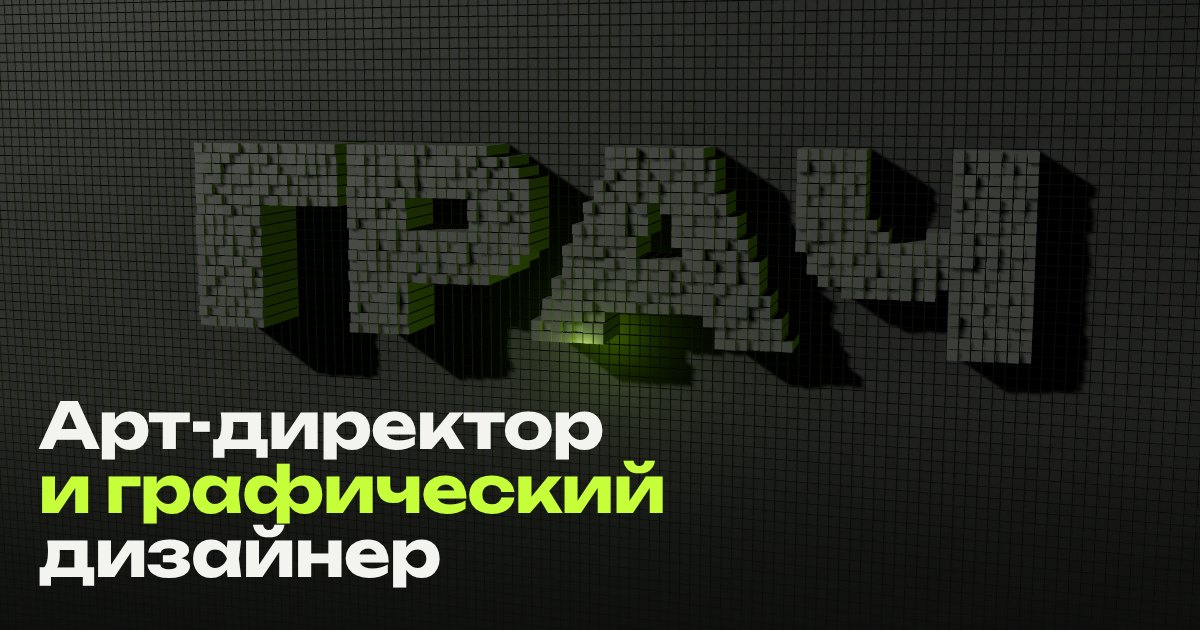
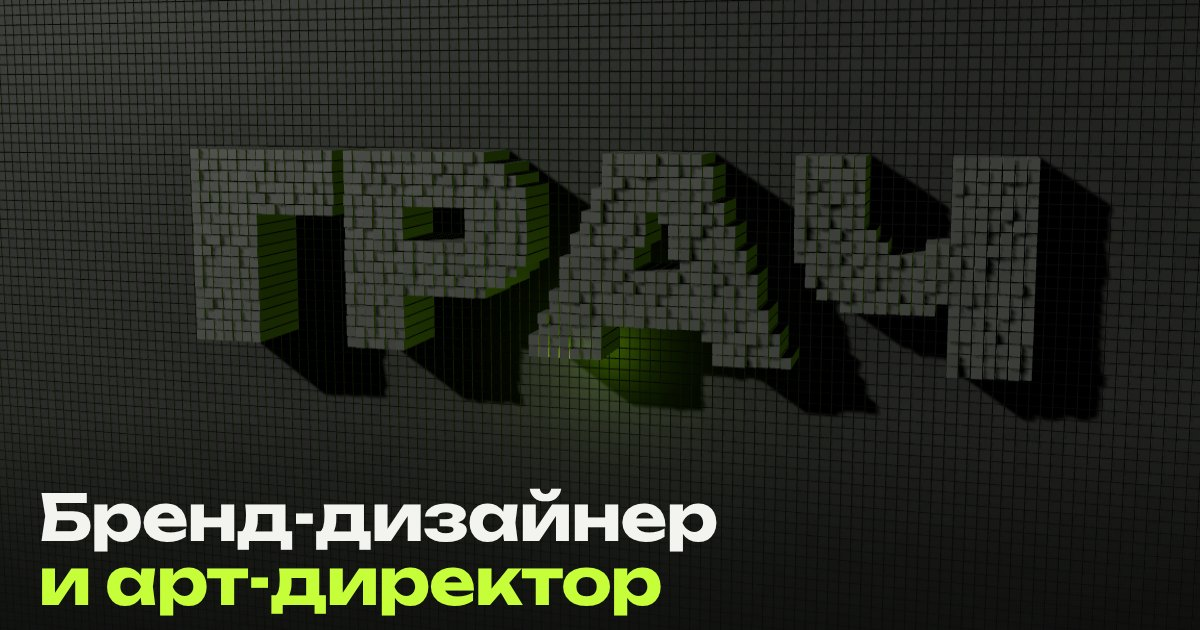
Портфолио по актуальному резюме
Claude-Session: https://claude.ai/code/session_01C8sGdM6AuVSUqUo4QNBD4Q

diff --git a/index.html b/index.html
@@ -3,16 +3,16 @@
 <head>
 <meta charset="utf-8">
 <meta name="viewport" content="width=device-width, initial-scale=1">
-<title>Грач Брутян — арт-директор и графический дизайнер</title>
-<meta name="description" content="Грач Брутян — арт-директор и графический дизайнер, дизайн-лид Business Cruise. Визуальные системы, презентации, мерч, афиши, AI-визуал.">
+<title>Грач Брутян — бренд-дизайнер и арт-директор</title>
+<meta name="description" content="Грач Брутян — ведущий бренд-дизайнер и арт-директор. Визуальные системы брендов: брендбуки, презентации, SMM, реклама, сайты, мерч и печать">
 <link rel="icon" href="assets/favicon.svg" type="image/svg+xml">
 <meta name="theme-color" content="#0a0b0a">
 <meta property="og:type" content="website">
 <meta property="og:locale" content="ru_RU">
-<meta property="og:title" content="Грач Брутян — арт-директор и графический дизайнер">
-<meta property="og:description" content="Арт-директор и графический дизайнер: айдентика, брендбуки, полиграфия, сайты, презентации и мерч для бизнеса">
+<meta property="og:title" content="Грач Брутян — бренд-дизайнер и арт-директор">
+<meta property="og:description" content="Визуальные системы брендов с нуля: айдентика, брендбуки, презентации, SMM, реклама, сайты, мерч и печать">
 <meta property="og:url" content="https://grizzly2888.github.io/Grach/">
-<meta property="og:image" content="https://grizzly2888.github.io/Grach/assets/og.jpg">
+<meta property="og:image" content="https://grizzly2888.github.io/Grach/assets/og.jpg?v=2">
 <meta property="og:image:width" content="1200">
 <meta property="og:image:height" content="630">
 <meta name="twitter:card" content="summary_large_image">
@@ -375,6 +375,7 @@ html{overscroll-behavior-x:none}
   .caps__shot{position:relative;inset:auto;flex:0 0 82%;aspect-ratio:4/5;opacity:1;transform:none;pointer-events:auto;border-radius:20px;overflow:hidden;scroll-snap-align:center;background:var(--plate)}
 }
 
+.js-hero-title .w{white-space:nowrap}
 /* ---------- reading measure: 7 words per line, 10 at most ---------- */
 .manifest-sub,.sec-head p,.card .lead,.more-note,.plate p,.contact p,.mini__body p,.stat p{max-width:38ch}
 .manifest-sub{max-width:34ch}
@@ -518,7 +519,7 @@ html{overscroll-behavior-x:none}
   <div class="hero__shade" aria-hidden="true"></div>
   <div class="stage"><div class="word-fallback" aria-hidden="true">ГРАЧ</div></div>
   <div class="hero__grid">
-    <h1 class="split js-hero-title">Арт-директор <span class="neon">и графический</span> дизайнер</h1>
+    <h1 class="split js-hero-title">Бренд-дизайнер <span class="neon">и арт-директор</span></h1>
     <div class="hero__card js-hero-card">
       <p class="hero__lead"><b>Бренд без швов</b>Один арт-директор вместо пяти подрядчиков</p>
       <ul class="brands" aria-label="Бренды">
@@ -538,7 +539,7 @@ html{overscroll-behavior-x:none}
 
 <div class="marquee" aria-hidden="true">
   <div class="marquee__track">
-    <span>Айдентика</span><span>Брендбуки</span><span>Полиграфия</span><span>Сайты</span><span>Презентации</span><span>Мерч</span><span>AI-визуал</span><span>Айдентика</span><span>Брендбуки</span><span>Полиграфия</span><span>Сайты</span><span>Презентации</span><span>Мерч</span><span>AI-визуал</span>
+    <span>Айдентика</span><span>Брендбуки</span><span>Полиграфия</span><span>Сайты</span><span>Презентации</span><span>SMM</span><span>Мерч</span><span>AI-визуал</span><span>Айдентика</span><span>Брендбуки</span><span>Полиграфия</span><span>Сайты</span><span>Презентации</span><span>SMM</span><span>Мерч</span><span>AI-визуал</span>
   </div>
 </div>
 
@@ -580,8 +581,8 @@ html{overscroll-behavior-x:none}
     </a>
     <a class="plate svc" href="#posters" data-reveal>
       <div class="ico"><svg viewBox="0 0 48 48" aria-hidden="true"><path d="M22 6c1.4 9.6 5.4 13.6 15 15-9.6 1.4-13.6 5.4-15 15-1.4-9.6-5.4-13.6-15-15 9.6-1.4 13.6-5.4 15-15Z"/><path class="fill" d="M38 30c.6 3.9 2.1 5.4 6 6-3.9.6-5.4 2.1-6 6-.6-3.9-2.1-5.4-6-6 3.9-.6 5.4-2.1 6-6Z"/></svg></div>
-      <h3>Реклама и AI-визуал</h3>
-      <p>Афиши, баннеры и сторис. Генерирую фоны под композицию и довожу вручную</p>
+      <h3>Реклама, SMM и AI-визуал</h3>
+      <p>Афиши, баннеры, сторис и карусели для соцсетей. Генерирую фоны под композицию и довожу вручную</p>
       <span class="svc__who">Business Cruise</span>
     </a>
   </div>
@@ -590,13 +591,13 @@ html{overscroll-behavior-x:none}
 <section class="sec wrap results" id="results" aria-labelledby="results-title">
   <div class="sec-head">
     <h2 class="split" id="results-title">Что даёт дизайн<br>бизнесу</h2>
-    <p data-reveal>Пять брендов из разных отраслей: туризм, недвижимость, промышленность, релокация и ритейл</p>
+    <p data-reveal>Цифры по Business Cruise: бизнес-сообщество на 1000+ предпринимателей</p>
   </div>
   <div class="stats">
-    <div class="stat" data-reveal><b>5</b><span>брендов</span><p>от риелторского клуба и производителя оборудования до сервиса релокации и сообщества путешественников</p></div>
     <div class="stat" data-reveal><b>11</b><span>направлений</span><p>экспедиций и круизов в одном визуальном языке: от Японии до Антарктиды</p></div>
-    <div class="stat" data-reveal><b>×2</b><span>быстрее</span><p>команда собирает макеты по брендбуку, без правок от дизайнера</p></div>
+    <div class="stat" data-reveal><b>×2</b><span>быстрее</span><p>команда собирает макеты по брендбуку, без правок от дизайнера</p></div>
     <div class="stat" data-reveal><b>+35%</b><span>регистраций</span><p>на события после перехода на новую серию афиш</p></div>
+    <div class="stat" data-reveal><b>+65%</b><span>вовлечённости</span><p>в соцсетях за первые 3 месяца после запуска фирменных каруселей</p></div>
   </div>
 </section>
 
@@ -630,7 +631,7 @@ html{overscroll-behavior-x:none}
         <div class="card__top"><span class="chip chip--neon">Business Cruise</span><span class="chip">Визуальная система</span><span class="chip">2025</span></div>
         <h3>Стайлгайд бизнес-сообщества</h3>
         <p class="lead">Задача: собрать разрозненные коммуникации круизов, экспедиций и событий в один узнаваемый язык</p>
-        <div class="dl"><div class="dl__label">Что сделано</div><ul class="dl__grid"><li><b>40+ страниц</b><span>Руководство по бренду</span></li><li><b>Old Money</b><span>Синий, бежевый, слоновая кость и два акцента</span></li><li><b>Логотип</b><span>Охранное поле, работа на фото</span></li><li><b>Шаблоны</b><span>Рекламные модули и шрифтовая система</span></li></ul></div>
+        <div class="dl"><div class="dl__label">Что сделано</div><ul class="dl__grid"><li><b>40+ страниц</b><span>Руководство по бренду</span></li><li><b>Old Money</b><span>Синий, бежевый, слоновая кость и два акцента</span></li><li><b>Логотип</b><span>Охранное поле, работа на фото</span></li><li><b>Шаблоны</b><span>Рекламные модули, шрифты и tone of voice</span></li></ul></div>
       </div>
       <div class="card__vis">
         <div class="mosaic m-deck">
@@ -645,7 +646,7 @@ html{overscroll-behavior-x:none}
         <div class="card__top"><span class="chip chip--neon">Signum Group</span><span class="chip">Полиграфия</span><span class="chip">Каталоги</span></div>
         <h3>Каталоги производителя Signum</h3>
         <p class="lead">Задача: уложить большой ассортимент оборудования в каталог, по которому легко найти нужное</p>
-        <div class="dl"><div class="dl__label">Что сделано</div><ul class="dl__grid"><li><b>Каталог</b><span>Продукция и имиджевая брошюра</span></li><li><b>Модульная сетка</b><span>Строгая типографика на сотнях страниц</span></li><li><b>Препресс</b><span>Структура и подготовка к печати</span></li></ul></div>
+        <div class="dl"><div class="dl__label">Что сделано</div><ul class="dl__grid"><li><b>Каталог</b><span>Продукция и имиджевая брошюра</span></li><li><b>Модульная сетка</b><span>Строгая типографика на сотнях страниц</span></li><li><b>Препресс</b><span>Структура и подготовка к печати</span></li><li><b>20+ проектов</b><span>Логотипы, реклама, перенос бренда в CRM</span></li></ul></div>
       </div>
       <div class="card__vis"><div class="mosaic m-deck">
           <div><img decoding="async" src="assets/v2/sig-cat.webp" srcset="assets/v2/sig-cat-480.webp 480w, assets/v2/sig-cat-960.webp 960w, assets/v2/sig-cat.webp 1600w" sizes="(max-width:900px) 100vw, 45vw" alt="Каталог фирменных товаров Signum 2024" loading="lazy" width="1600" height="900"></div>
@@ -658,9 +659,9 @@ html{overscroll-behavior-x:none}
     <article class="card" id="case-dreem">
       <div class="card__meta">
         <div class="card__top"><span class="chip chip--neon">Dreem Relocation</span><span class="chip">UX/UI</span><span class="chip">Сайт</span></div>
-        <h3>Платформа по релокации Dreem</h3>
+        <h3>Платформа по релокации Dreem</h3>
         <p class="lead">Был ведущим дизайнером. Цель: упростить навигацию и передать чувство надёжности тем, кто переезжает в другую страну</p>
-        <div class="dl"><div class="dl__label">Что сделано</div><ul class="dl__grid"><li><b>UX</b><span>Логика экранов и навигация сайта</span></li><li><b>UI</b><span>Визуальная система и иллюстрации</span></li></ul></div>
+        <div class="dl"><div class="dl__label">Что сделано</div><ul class="dl__grid"><li><b>UX</b><span>Логика экранов и навигация сайта</span></li><li><b>UI</b><span>Визуальная система и иллюстрации</span></li><li><b>Шаблоны</b><span>Визуалы выходят на 30% быстрее</span></li><li><b>Дашборды</b><span>Интерфейсные модули и визуалы для соцсетей</span></li></ul></div>
       </div>
       <div class="card__vis"><div class="mosaic m-deck">
           <div><img decoding="async" src="assets/v2/dreem-visa.webp" srcset="assets/v2/dreem-visa-480.webp 480w, assets/v2/dreem-visa-960.webp 960w, assets/v2/dreem-visa.webp 1600w" sizes="(max-width:900px) 100vw, 45vw" alt="Сайт Dreem на ноутбуке и телефоне: страница визы O-1A" loading="lazy" width="1600" height="900"></div>
@@ -689,7 +690,7 @@ html{overscroll-behavior-x:none}
   <div class="minis">
     <article class="mini" data-reveal>
       <div class="mini__img"><img decoding="async" src="assets/v2/sig-web.webp" srcset="assets/v2/sig-web-480.webp 480w, assets/v2/sig-web-960.webp 960w, assets/v2/sig-web.webp 1600w" sizes="(max-width:900px) 100vw, 33vw" alt="Сайт компании Signum на ноутбуке" loading="lazy" width="1600" height="900"></div>
-      <div class="mini__body"><span class="chip chip--neon">Signum</span><h3>Сайт производителя</h3><p>Сайт производителя КИПиА: продукт крупно, разделы для клиентов и партнёров</p></div>
+      <div class="mini__body"><span class="chip chip--neon">Signum</span><h3>Сайт производителя</h3><p>Сайт производителя КИПиА с разделами для клиентов и партнёров: +20% к глубине просмотра</p></div>
     </article>
     <article class="mini" data-reveal>
       <div class="mini__img"><img decoding="async" src="assets/v2/freya-web.webp" srcset="assets/v2/freya-web-480.webp 480w, assets/v2/freya-web-960.webp 960w, assets/v2/freya-web.webp 1600w" sizes="(max-width:900px) 100vw, 33vw" alt="Сайт магазина детской одежды Freya на ноутбуке" loading="lazy" width="1600" height="900"></div>
@@ -697,7 +698,7 @@ html{overscroll-behavior-x:none}
     </article>
     <article class="mini" data-reveal>
       <div class="mini__img"><img decoding="async" src="assets/v2/freya-mobile.webp" srcset="assets/v2/freya-mobile-480.webp 480w, assets/v2/freya-mobile-960.webp 960w, assets/v2/freya-mobile.webp 1600w" sizes="(max-width:900px) 100vw, 33vw" alt="Мобильная версия сайта Freya на двух телефонах" loading="lazy" width="1600" height="900"></div>
-      <div class="mini__body"><span class="chip chip--neon">Freya</span><h3>Мобильная версия</h3><p>Тот же магазин в телефоне: крупные фото, короткие подписи, каталог в одну колонку</p></div>
+      <div class="mini__body"><span class="chip chip--neon">Freya</span><h3>Мобильная версия</h3><p>Тот же магазин в телефоне: крупные фото, короткие подписи, каталог в одну колонку</p></div>
     </article>
   </div>
   <p class="more-note" data-reveal>Здесь лишь часть проектов. Покажу больше работ под вашу задачу: <a href="https://t.me/Grachvision" target="_blank" rel="noopener">запросить подборку в Telegram ↗</a></p>
@@ -714,14 +715,14 @@ html{overscroll-behavior-x:none}
   </div>
   <div class="hs__track js-hs-track">
     <figure class="slide"><img decoding="async" src="assets/v2/wa-cover.webp" srcset="assets/v2/wa-cover-480.webp 480w, assets/v2/wa-cover.webp 1080w" sizes="(max-width:900px) 64vw, 320px" alt="Слайд презентации «Дикая Амазонка»: Обложка: бизнес-круиз «Амазонка»" loading="lazy" width="1080" height="1920"><figcaption><span>Обложка: бизнес-круиз «Амазонка»</span><span>01 / 26</span></figcaption></figure>
-    <figure class="slide"><img decoding="async" src="assets/v2/wa-speakers.webp" srcset="assets/v2/wa-speakers-480.webp 480w, assets/v2/wa-speakers.webp 1080w" sizes="(max-width:900px) 64vw, 320px" alt="Слайд презентации «Дикая Амазонка»: Спикеры и темы" loading="lazy" width="1080" height="1920"><figcaption><span>Спикеры и темы</span><span>04 / 26</span></figcaption></figure>
+    <figure class="slide"><img decoding="async" src="assets/v2/wa-speakers.webp" srcset="assets/v2/wa-speakers-480.webp 480w, assets/v2/wa-speakers.webp 1080w" sizes="(max-width:900px) 64vw, 320px" alt="Слайд презентации «Дикая Амазонка»: Спикеры и темы" loading="lazy" width="1080" height="1920"><figcaption><span>Спикеры и темы</span><span>04 / 26</span></figcaption></figure>
     <figure class="slide"><img decoding="async" src="assets/v2/wa-vega.webp" srcset="assets/v2/wa-vega-480.webp 480w, assets/v2/wa-vega.webp 1080w" sizes="(max-width:900px) 64vw, 320px" alt="Слайд презентации «Дикая Амазонка»: Лайнер SH Vega" loading="lazy" width="1080" height="1920"><figcaption><span>Лайнер SH Vega</span><span>05 / 26</span></figcaption></figure>
-    <figure class="slide"><img decoding="async" src="assets/v2/wa-vega-inside.webp" srcset="assets/v2/wa-vega-inside-480.webp 480w, assets/v2/wa-vega-inside.webp 1080w" sizes="(max-width:900px) 64vw, 320px" alt="Слайд презентации «Дикая Амазонка»: Что есть на борту" loading="lazy" width="1080" height="1920"><figcaption><span>Что есть на борту</span><span>06 / 26</span></figcaption></figure>
-    <figure class="slide"><img decoding="async" src="assets/v2/wa-vega-facts.webp" srcset="assets/v2/wa-vega-facts-480.webp 480w, assets/v2/wa-vega-facts.webp 1080w" sizes="(max-width:900px) 64vw, 320px" alt="Слайд презентации «Дикая Амазонка»: Лайнер в цифрах" loading="lazy" width="1080" height="1920"><figcaption><span>Лайнер в цифрах</span><span>07 / 26</span></figcaption></figure>
+    <figure class="slide"><img decoding="async" src="assets/v2/wa-vega-inside.webp" srcset="assets/v2/wa-vega-inside-480.webp 480w, assets/v2/wa-vega-inside.webp 1080w" sizes="(max-width:900px) 64vw, 320px" alt="Слайд презентации «Дикая Амазонка»: Что есть на борту" loading="lazy" width="1080" height="1920"><figcaption><span>Что есть на борту</span><span>06 / 26</span></figcaption></figure>
+    <figure class="slide"><img decoding="async" src="assets/v2/wa-vega-facts.webp" srcset="assets/v2/wa-vega-facts-480.webp 480w, assets/v2/wa-vega-facts.webp 1080w" sizes="(max-width:900px) 64vw, 320px" alt="Слайд презентации «Дикая Амазонка»: Лайнер в цифрах" loading="lazy" width="1080" height="1920"><figcaption><span>Лайнер в цифрах</span><span>07 / 26</span></figcaption></figure>
     <figure class="slide"><img decoding="async" src="assets/v2/wa-map.webp" srcset="assets/v2/wa-map-480.webp 480w, assets/v2/wa-map.webp 1080w" sizes="(max-width:900px) 64vw, 320px" alt="Слайд презентации «Дикая Амазонка»: Карта маршрута" loading="lazy" width="1080" height="1920"><figcaption><span>Карта маршрута</span><span>09 / 26</span></figcaption></figure>
     <figure class="slide"><img decoding="async" src="assets/v2/wa-belem.webp" srcset="assets/v2/wa-belem-480.webp 480w, assets/v2/wa-belem.webp 1080w" sizes="(max-width:900px) 64vw, 320px" alt="Слайд презентации «Дикая Амазонка»: День 1–2: Белен" loading="lazy" width="1080" height="1920"><figcaption><span>День 1–2: Белен</span><span>11 / 26</span></figcaption></figure>
     <figure class="slide"><img decoding="async" src="assets/v2/wa-abuna.webp" srcset="assets/v2/wa-abuna-480.webp 480w, assets/v2/wa-abuna.webp 1080w" sizes="(max-width:900px) 64vw, 320px" alt="Слайд презентации «Дикая Амазонка»: День 4: Абуна" loading="lazy" width="1080" height="1920"><figcaption><span>День 4: Абуна</span><span>13 / 26</span></figcaption></figure>
-    <figure class="slide"><img decoding="async" src="assets/v2/wa-sea.webp" srcset="assets/v2/wa-sea-480.webp 480w, assets/v2/wa-sea.webp 1080w" sizes="(max-width:900px) 64vw, 320px" alt="Слайд презентации «Дикая Амазонка»: День в море" loading="lazy" width="1080" height="1920"><figcaption><span>День в море</span><span>17 / 26</span></figcaption></figure>
+    <figure class="slide"><img decoding="async" src="assets/v2/wa-sea.webp" srcset="assets/v2/wa-sea-480.webp 480w, assets/v2/wa-sea.webp 1080w" sizes="(max-width:900px) 64vw, 320px" alt="Слайд презентации «Дикая Амазонка»: День в море" loading="lazy" width="1080" height="1920"><figcaption><span>День в море</span><span>17 / 26</span></figcaption></figure>
     <figure class="slide"><img decoding="async" src="assets/v2/wa-paramaribo.webp" srcset="assets/v2/wa-paramaribo-480.webp 480w, assets/v2/wa-paramaribo.webp 1080w" sizes="(max-width:900px) 64vw, 320px" alt="Слайд презентации «Дикая Амазонка»: Парамарибо" loading="lazy" width="1080" height="1920"><figcaption><span>Парамарибо</span><span>19 / 26</span></figcaption></figure>
     <figure class="slide"><img decoding="async" src="assets/v2/wa-scarborough.webp" srcset="assets/v2/wa-scarborough-480.webp 480w, assets/v2/wa-scarborough.webp 1080w" sizes="(max-width:900px) 64vw, 320px" alt="Слайд презентации «Дикая Амазонка»: Скарборо, Тобаго" loading="lazy" width="1080" height="1920"><figcaption><span>Скарборо, Тобаго</span><span>21 / 26</span></figcaption></figure>
     <figure class="slide"><img decoding="async" src="assets/v2/wa-bridgetown.webp" srcset="assets/v2/wa-bridgetown-480.webp 480w, assets/v2/wa-bridgetown.webp 1080w" sizes="(max-width:900px) 64vw, 320px" alt="Слайд презентации «Дикая Амазонка»: Бриджтаун, Барбадос" loading="lazy" width="1080" height="1920"><figcaption><span>Бриджтаун, Барбадос</span><span>22 / 26</span></figcaption></figure>
@@ -732,8 +733,8 @@ html{overscroll-behavior-x:none}
 <!-- MERCH -->
 <section class="sec wrap" id="merch">
   <div class="sec-head">
-    <h2 class="split">Мерч и упаковка</h2>
-    <p data-reveal>Своя капсула для каждой поездки: принт по мотивам страны, маршрут на одежде, упаковка и сувениры в одном стиле с программой</p>
+    <h2 class="split">Мерч и упаковка</h2>
+    <p data-reveal>Капсулы и упаковка для 9 поездок: принт по мотивам страны, маршрут на одежде, сувениры в одном стиле с программой</p>
   </div>
   <div class="caps">
     <ul class="caps__list" aria-label="Капсулы">
@@ -755,7 +756,7 @@ html{overscroll-behavior-x:none}
       <figure class="caps__shot" data-i="4"><img decoding="async" src="assets/v2/m-africa.webp" srcset="assets/v2/m-africa-480.webp 480w, assets/v2/m-africa.webp 1089w" sizes="(max-width:900px) 82vw, 55vw" alt="Футболка «#Африка — соединяем сильных» спереди и сзади" loading="lazy" style="object-fit:cover;object-position:50% 30%"><figcaption><b>Африка</b>Крупный принт с флагом ЮАР и хештегом #Африка на спине</figcaption></figure>
       <figure class="caps__shot caps__shot--japan" data-i="5" style="background:#e3e8ee"><img decoding="async" src="assets/v2/m-japan.webp" srcset="assets/v2/m-japan-480.webp 480w, assets/v2/m-japan-960.webp 960w, assets/v2/m-japan.webp 1280w" sizes="(max-width:900px) 82vw, 55vw" alt="Свитшот Business Cruise с картой Японии на спине" loading="lazy" style="object-fit:cover;object-position:50% 40%"><figcaption><b>Япония</b>Свитшот с картой Японии и красным солнцем на спине</figcaption></figure>
       <figure class="caps__shot" data-i="6" style="background:#1c214a"><img decoding="async" src="assets/v2/m-europe.webp" srcset="assets/v2/m-europe-480.webp 480w, assets/v2/m-europe-960.webp 960w, assets/v2/m-europe.webp 1400w" sizes="(max-width:900px) 82vw, 55vw" alt="Футболка «Бизнес-круиз Европа» с картой маршрута" loading="lazy" style="object-fit:contain;object-position:50% 50%"><figcaption><b>Европа 2025</b>Маршрут лайнера по Средиземноморью прямо на груди</figcaption></figure>
-      <figure class="caps__shot" data-i="7" style="background:#1c214a"><img decoding="async" src="assets/v2/m-explora.webp" srcset="assets/v2/m-explora-480.webp 480w, assets/v2/m-explora-960.webp 960w, assets/v2/m-explora.webp 1400w" sizes="(max-width:900px) 82vw, 55vw" alt="Футболка со схемой палуб лайнера Explora II" loading="lazy" style="object-fit:contain;object-position:50% 50%"><figcaption><b>ОДБК</b>Схема палуб лайнера как графика для футболки</figcaption></figure>
+      <figure class="caps__shot" data-i="7" style="background:#1c214a"><img decoding="async" src="assets/v2/m-explora.webp" srcset="assets/v2/m-explora-480.webp 480w, assets/v2/m-explora-960.webp 960w, assets/v2/m-explora.webp 1400w" sizes="(max-width:900px) 82vw, 55vw" alt="Футболка со схемой палуб лайнера Explora II" loading="lazy" style="object-fit:contain;object-position:50% 50%"><figcaption><b>ОДБК</b>Схема палуб лайнера как графика для футболки</figcaption></figure>
       <figure class="caps__shot" data-i="8"><img decoding="async" src="assets/v2/antarctic-front.webp" srcset="assets/v2/antarctic-front-480.webp 480w, assets/v2/antarctic-front.webp 972w" sizes="(max-width:900px) 82vw, 55vw" alt="Рашгард Business Cruise × Antarctic100" loading="lazy" style="object-fit:cover;object-position:50% 40%"><figcaption><b>Antarctic100</b>Ледяной разлом по корпусу и рукавам, логотипы партнёров отдельно</figcaption></figure>
     </div>
   </div>
@@ -763,7 +764,7 @@ html{overscroll-behavior-x:none}
 
 <section class="wrap midcta" aria-label="Обсудить проект">
   <div class="midcta__plate" data-reveal>
-    <p>Нужна такая же система для вашего бренда?</p>
+    <p>Нужна такая же система для вашего бренда?</p>
     <a class="btn js-magnet" href="#contact">Обсудить проект <i>↗</i></a>
   </div>
 </section>
@@ -771,8 +772,8 @@ html{overscroll-behavior-x:none}
 <!-- POSTERS -->
 <section class="sec wrap" id="posters">
   <div class="sec-head">
-    <h2 class="split">Реклама и афиши</h2>
-    <p data-reveal>Серия из шести афиш, целиком и без обрезки. Шрифт и свет меняются вслед за маршрутом, сетка остаётся общей</p>
+    <h2 class="split">Реклама и афиши</h2>
+    <p data-reveal>Серия из шести афиш, целиком и без обрезки. Шрифт и свет меняются вслед за маршрутом, сетка остаётся общей</p>
   </div>
   <div class="fan js-fan">
     <figure data-cursor="Смотреть"><img decoding="async" src="assets/v2/poster-europe.webp" srcset="assets/v2/poster-europe-480.webp 480w, assets/v2/poster-europe.webp 900w" sizes="(max-width:900px) 62vw, 250px" alt="Афиша «Европа»" loading="lazy" width="900" height="1600"></figure>
@@ -811,22 +812,25 @@ html{overscroll-behavior-x:none}
     <div class="plate" data-reveal>
       <div class="label">Обо мне</div>
       <h2>Грач Брутян</h2>
-      <p>Графический дизайнер и арт-директор. Делаю айдентику, брендбуки, полиграфию, сайты, презентации и мерч для компаний из разных отраслей: туризма, недвижимости, промышленности, релокации и ритейла</p>
+      <p>Бренд-дизайнер и арт-директор, в дизайне больше 4 лет. Строю визуальные системы брендов с нуля и внедряю их во все каналы: от брендбука и сайта до мерча и печати</p>
       <ul class="exp">
-        <li><b>Business Cruise</b><span>Дизайн-лид, арт-директор</span></li>
-        <li><b>Dreem Relocation</b><span>Ведущий дизайнер</span></li>
-        <li><b>Yufarev, Signum, Freya</b><span>Айдентика, каталоги, сайты</span></li>
+        <li><b>Business Cruise</b><span>Ведущий бренд-дизайнер</span></li>
+        <li><b>Signum Group</b><span>Графический и веб-дизайнер</span></li>
+        <li><b>Dreem</b><span>Ведущий дизайнер, веб и графика</span></li>
+        <li><b>Galleria Russian Brands</b><span>Графический дизайнер</span></li>
+        <li><b>Yufarev Group, Freya</b><span>Брендбук, сайт</span></li>
       </ul>
-      <p>Работаю удалённо. Если задача пока звучит как «сделайте красиво», начнём с разбора</p>
+      <p>Экономическое образование и опыт руководителя отдела помогают решать дизайном задачи бизнеса. Веду дизайнеров и подрядчиков от ТЗ до приёмки</p>
+      <p>Москва, работаю удалённо, готов к командировкам</p>
       <ul class="tools" aria-label="Инструменты">
         <li class="tool"><span class="tool__ico"><b>Ai</b></span><span class="tool__name">Illustrator</span></li>
         <li class="tool"><span class="tool__ico"><b>Ps</b></span><span class="tool__name">Photoshop</span></li>
         <li class="tool"><span class="tool__ico"><b>Id</b></span><span class="tool__name">InDesign</span></li>
         <li class="tool"><span class="tool__ico"><b>Ae</b></span><span class="tool__name">After Effects</span></li>
         <li class="tool"><span class="tool__ico"><svg viewBox="0 0 24 36" aria-hidden="true"><path d="M6 0h6v12H6a6 6 0 0 1 0-12Z"/><path d="M12 0h6a6 6 0 0 1 0 12h-6Z" opacity=".75"/><path d="M6 12h6v12H6a6 6 0 0 1 0-12Z" opacity=".55"/><circle cx="18" cy="18" r="6" opacity=".9"/><path d="M6 24h6v6a6 6 0 1 1-6-6Z" opacity=".65"/></svg></span><span class="tool__name">Figma</span></li>
-        <li class="tool"><span class="tool__ico"><svg viewBox="0 0 32 32" aria-hidden="true"><path d="M5 6h22l-3 13H8Z"/><rect x="15" y="19" width="2" height="8"/><rect x="9" y="26" width="14" height="2" rx="1"/></svg></span><span class="tool__name">Keynote</span></li>
-        <li class="tool"><span class="tool__ico"><b>P</b></span><span class="tool__name">PowerPoint</span></li>
-        <li class="tool"><span class="tool__ico"><svg viewBox="0 0 32 32" aria-hidden="true"><path d="M16 2c1 7 4 10 11 11-7 1-10 4-11 11-1-7-4-10-11-11 7-1 10-4 11-11Z"/><path d="M26 20c.5 3 1.7 4.3 4.5 4.8-2.8.5-4 1.8-4.5 4.7-.5-2.9-1.7-4.2-4.5-4.7 2.8-.5 4-1.8 4.5-4.8Z" opacity=".7"/></svg></span><span class="tool__name">AI Design</span></li>
+        <li class="tool"><span class="tool__ico"><svg viewBox="0 0 32 32" aria-hidden="true"><path d="M15 3 6 22h9Z"/><path d="M17 8l8 14h-8Z" opacity=".7"/><path d="M4 25h24l-3 4H7Z"/></svg></span><span class="tool__name">Midjourney</span></li>
+        <li class="tool"><span class="tool__ico"><svg viewBox="0 0 32 32" aria-hidden="true"><path d="M16 2c1 7 4 10 11 11-7 1-10 4-11 11-1-7-4-10-11-11 7-1 10-4 11-11Z"/><path d="M26 20c.5 3 1.7 4.3 4.5 4.8-2.8.5-4 1.8-4.5 4.7-.5-2.9-1.7-4.2-4.5-4.7 2.8-.5 4-1.8 4.5-4.8Z" opacity=".7"/></svg></span><span class="tool__name">Nano Banana</span></li>
+        <li class="tool"><span class="tool__ico"><svg viewBox="0 0 32 32" aria-hidden="true"><path d="M11 9 4 16l7 7" fill="none" stroke="currentColor" stroke-width="3" stroke-linecap="round" stroke-linejoin="round"/><path d="m21 9 7 7-7 7" fill="none" stroke="currentColor" stroke-width="3" stroke-linecap="round" stroke-linejoin="round"/><path d="m18 6-4 20" fill="none" stroke="currentColor" stroke-width="3" stroke-linecap="round"/></svg></span><span class="tool__name">Claude, Codex</span></li>
       </ul>
     </div>
   </div>
@@ -835,14 +839,14 @@ html{overscroll-behavior-x:none}
 <!-- CONTACT -->
 <section class="contact" id="contact">
   <h2 class="js-contact-title">Расскажите<br>о задаче</h2>
-  <p>Пришлите, что нужно сделать, для каких носителей и к какому сроку. Отвечу в Telegram в течение дня с вопросами и оценкой сроков</p>
+  <p>Пришлите, что нужно сделать, для каких носителей и к какому сроку. Отвечу в Telegram в течение дня с вопросами и оценкой сроков</p>
   <div class="contact__grid">
     <a class="contact__item" href="https://t.me/Grachvision" target="_blank" rel="noopener"><small>Telegram</small><b>@Grachvision</b></a>
     <a class="contact__item" href="mailto:HBrutyan17@gmail.com"><small>Почта</small><b>HBrutyan17@gmail.com</b></a>
     <a class="contact__item" href="tel:+79194473909"><small>Телефон</small><b>+7 919 447-39-09</b></a>
   </div>
 </section>
-<footer class="footer"><span>© 2026 Hrach Brutian</span><span>Арт-директор и графический дизайнер</span></footer>
+<footer class="footer"><span>© 2026 Hrach Brutian</span><span>Бренд-дизайнер и арт-директор</span></footer>
 
 </main>
 
